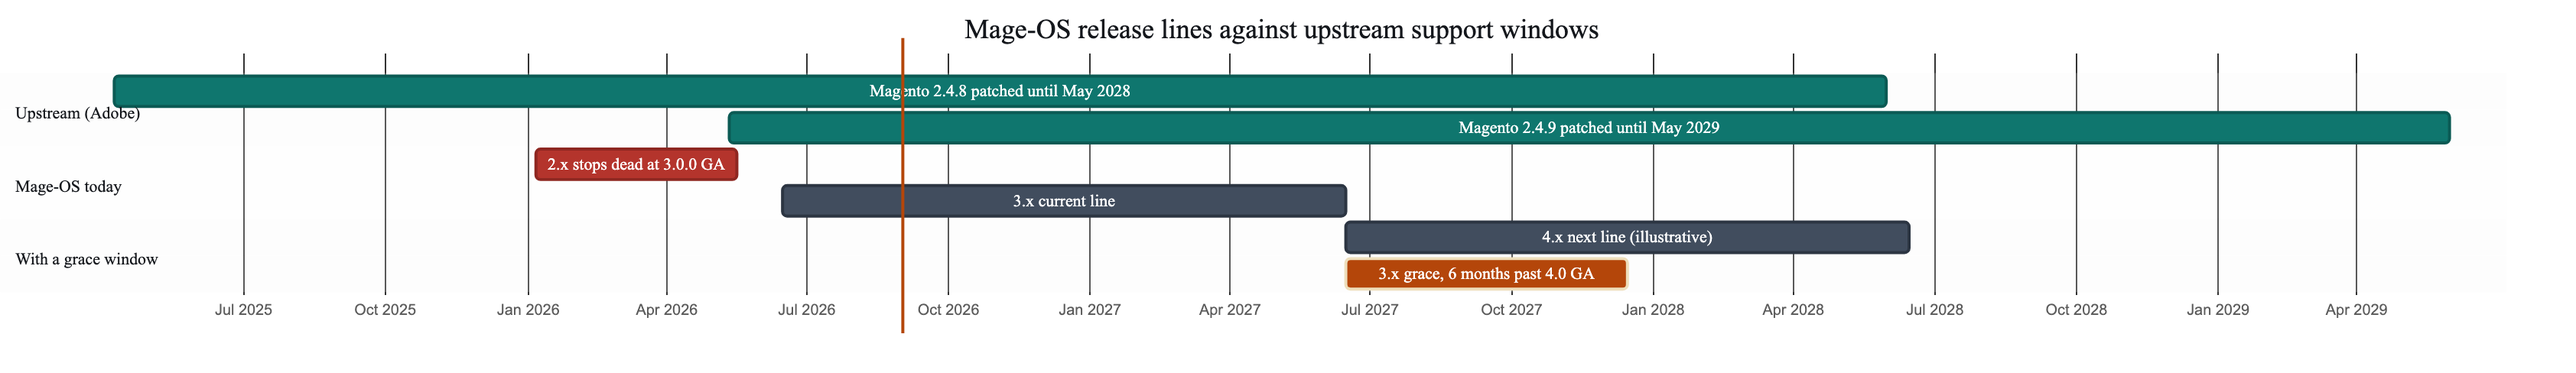
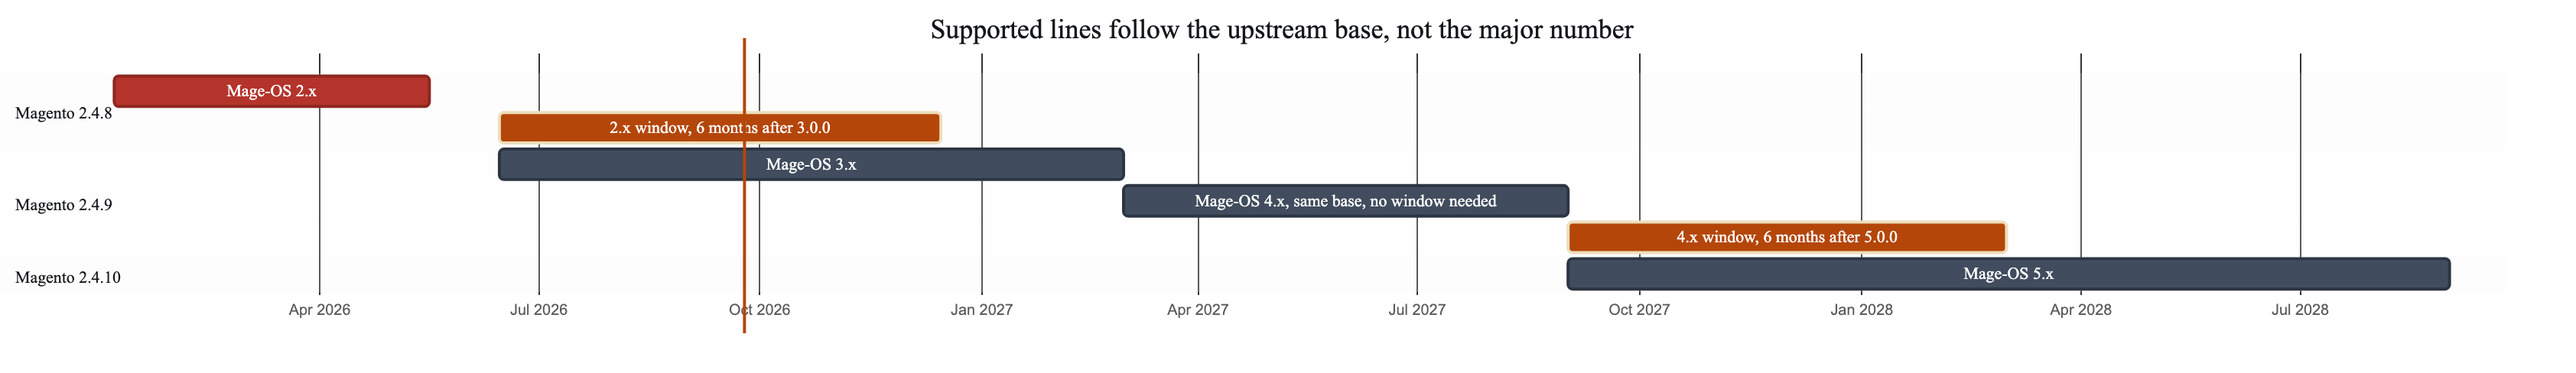
Anchor the maintenance window to the upstream base
Follows Ryan's point that a major keeping the same Magento version is a safe
upgrade, so only the line before an upstream feature change needs a window.
Supported lines are now the current major plus the last major on the previous
Magento version, for six months after the first release on the new one.

Also narrows scope to security fixes only, adds the rule that every supported
line ships the same day from one patch port with an escape hatch, and records
the open question of whether 4.0's own breaking changes warrant a one-off 3.x
window.

Claude-Session: https://claude.ai/code/session_0145ePWxG5QhuKfiSjku3SD4

diff --git a/RELEASE-GRACE-WINDOW-PROPOSAL.md b/RELEASE-GRACE-WINDOW-PROPOSAL.md
@@ -1,12 +1,12 @@
-# Proposal: a six-month grace window for the previous release line
+# Proposal: a security maintenance window for the previous upstream base
 
 **Status:** draft for discussion
-**Date:** 2026-08-31
+**Date:** 2026-09-24
 
 ## Problem
 
-Today a Mage-OS release line stops the moment the next one ships. Merchants and
-agencies get no overlap in which to plan an upgrade.
+A Mage-OS line stops the moment the next one ships, so a merchant who is not
+ready to move gets nothing — not even a security fix.
 
 Tracing `extra.magento_version` across `resource/history/mage-os/`:
 
@@ -15,234 +15,197 @@ Tracing `extra.magento_version` across `resource/history/mage-os/`:
 | 2.2.2 | 2.4.8-p4 | 2026-05-12 |
 | **2.3.0** | **2.4.8-p5** | **2026-05-17 — last 2.x ever** |
 | 3.0.0 | 2.4.9 | 2026-06-15 |
-| 3.1.0 | 2.4.9 | 2026-07-13 |
-| 3.3.0 | 2.4.9 | 2026-08-10 |
+| 3.4.0 | 2.4.9 | 2026-08-11 |
 
-Magento 2.4.9 reached GA on 2026-05-12; Mage-OS 3.0.0 followed 34 days later.
-The 2.x line has had **zero** releases since.
+Magento 2.4.9 reached GA on 2026-05-12 and Mage-OS 3.0.0 followed 34 days
+later. The 2.x line has had **zero** releases since, although Adobe supports its
+2.4.8 base until **2028-05-31** and has shipped isolated patches for it in July,
+August and September 2026. The fixes exist upstream; we stopped forwarding them.
 
-Meanwhile **Adobe supports the 2.4.8 base until 2028-05-31** and is still
-publishing `-pN` patches for it. The security work is already done upstream —
-we simply stopped forwarding it.
-
-The same intent is encoded in `mage-os/github-actions` at
+The same behaviour is encoded in `mage-os/github-actions` at
 `supported-version/src/versions/mage-os/individual.json`, where each version's
-`eol` is set to the *next version's release date*.
-
-```mermaid
-gantt
-    title Mage-OS release lines against upstream support windows
-    dateFormat YYYY-MM-DD
-    axisFormat %b %Y
-
-    section Upstream (Adobe)
-    Magento 2.4.8 patched until May 2028   :done, u8, 2025-04-08, 2028-05-31
-    Magento 2.4.9 patched until May 2029   :done, u9, 2026-05-12, 2029-05-31
-
-    section Mage-OS today
-    2.x stops dead at 3.0.0 GA             :crit, m2, 2026-01-06, 2026-05-17
-    3.x current line                       :active, m3, 2026-06-15, 2027-06-15
-
-    section With a grace window
-    4.x next line (illustrative)           :active, m4, 2027-06-15, 2028-06-15
-    3.x grace, 6 months past 4.0 GA        :g3, 2027-06-15, 2027-12-15
-```
+`eol` is the *next version's release date*.
 
 ## Proposal
 
-> Each Mage-OS major line continues to receive security and critical-fix
-> releases for six months after the following major reaches GA. During that
-> window we track upstream patch releases for the base Magento version.
+> **Supported lines:** the current major, plus the last major built on the
+> previous Magento feature version, for six months after the first release on
+> the new one.
 
-The first line to get a grace window is **3.x, when 4.0.0 ships**. 2.x is not
-retrofitted (see Recommendation).
+The window follows the **upstream base**, not the major number. A major that
+keeps the same Magento version is a safe upgrade, so it needs no window; a major
+that moves to a new Magento feature version is what merchants need time for.
 
-The grace line is **the last 3.x release available when 4.0.0 ships**. The
-examples below use 3.6.0 for it; the real number is whatever 3.x is at by then.
-Merchants on earlier 3.x releases get fixes by moving to the latest 3.x — a
-step within the same line, on the same Magento 2.4.9 base, which a `^3.0`
-constraint picks up automatically. That mirrors Adobe, which supports the latest
-patch of each line rather than every release in it.
+```mermaid
+gantt
+    title Supported lines follow the upstream base, not the major number
+    dateFormat YYYY-MM-DD
+    axisFormat %b %Y
 
-Scope rules:
+    section Magento 2.4.8
+    Mage-OS 2.x                              :crit, m2, 2026-01-06, 2026-05-17
+    2.x window, 6 months after 3.0.0         :w2, 2026-06-15, 2026-12-15
 
-- **Security and critical regressions only.** No feature backports.
-- **Patch-level versions only** — `3.6.1`, `3.6.2`. Never a new minor on a line
-  in its grace window; a minor signals features.
-- **Event-driven, not scheduled.** We build the old line only when Adobe ships a
-  patch for its base. No upstream drop, no release.
+    section Magento 2.4.9
+    Mage-OS 3.x                              :active, m3, 2026-06-15, 2027-03-01
+    Mage-OS 4.x, same base, no window needed :active, m4, 2027-03-01, 2027-09-01
+    4.x window, 6 months after 5.0.0         :w4, 2027-09-01, 2028-03-01
 
-## This is an overlap window, not an LTS
+    section Magento 2.4.10
+    Mage-OS 5.x                              :active, m5, 2027-09-01, 2028-09-01
+```
 
-The distinction carries most of the cost. A true LTS runs years past upstream
-and eventually means originating our own security patches — that needs funding
-or a separate team, which is how Ubuntu and Debian do it.
+Dates after 3.4.0 are illustrative. Two things are load-bearing: only the line
+before a base change gets a window, and at most two lines are ever live.
 
-A six-month grace never approaches that. The old base stays inside Adobe's
-support window for the whole period, so every grace release is **forwarding
-work, not authoring work**. 3.x is built on Magento 2.4.9, which Adobe supports
-until 2029-05-31, so a six-month window after 4.0.0 closes long before that.
+### Scope
 
-Adobe's patch rhythm is close to bi-monthly (`2.4.8` Apr 2025 → `p1` Jun →
-`p2` Aug → `p3` Oct → `p4` Mar 2026 → `p5` May), so a six-month window catches
-two or three drops: two or three extra builds per cycle, against twelve to
-fifteen for a real LTS.
+- **Security fixes only.** Tiny, low-risk regression fixes at the maintainers'
+  discretion. Anything else means upgrading to the current major.
+- **Patch versions only** on a maintenance line — `4.3.1`, `4.3.2`. A new minor
+  would signal features.
+- **The last minor of the line only.** A merchant on `4.1.0` moves to `4.3.x` to
+  receive fixes, which is a minor bump on the same Magento base.
+- **Event-driven.** We build the maintenance line only when Adobe ships a patch
+  for its base.
+- **Every supported line ships the same day**, from one patch port, with one
+  announcement. If a port needs conflict resolution, the current line is
+  published on time and the maintenance build states its ETA. See below.
+
+### What merchants do
+
+| Situation | Action |
+| --- | --- |
+| On the current major | Upgrade as usual |
+| On a major sharing the current Magento version (3.x when 4.x is out) | Upgrade; the base does not change |
+| Not ready for the new Magento version | Stay on the last minor of the previous base for six months |
+| Window closed | Still installable from repo.mage-os.org; no new fixes |
+
+## Shipping together
+
+The risk of a maintenance line is a split cadence: the current release goes out
+with a security fix and the older one follows days later, or holds it up.
+
+The tooling already avoids that. `bin/apply-security-patch.js` (#356) takes
+`--branches=main,release/4.x` and ports one Adobe patch to every line in a
+single run, so the maintenance port happens alongside the current one, not after
+it. Security-only scope keeps each port small; Adobe patches every supported line
+on one day, and so should we.
+
+The escape hatch matters as much as the rule: a conflicted hunk on the old line
+must never delay a security release on the current one.
 
 ## Mechanics
 
-`main` will have moved to 4.x, so the grace line cannot be built from it, nor
-from a tracking branch: for 2.x, `2.3.0...2.4-develop` in `mageos-magento2` was
-**diverged, 10,272 commits ahead**. The grace line branches from the commit the
-last 3.x release was built from, and each security fix is ported onto it.
+`main` will have moved on, so the maintenance line cannot be built from it, nor
+from a tracking branch — `2.3.0...2.4-develop` in `mageos-magento2` is
+**diverged, 10,272 commits ahead**. It branches from the commit its last release
+was built from.
 
 ```mermaid
 gitGraph
-    commit id: "3.5.0 source"
-    commit id: "3.6.0 source" tag: "built as 3.6.0"
-    branch release/3.x
+    commit id: "4.2.0 source"
+    commit id: "4.3.0 source" tag: "built as 4.3.0"
+    branch release/4.x
     checkout main
-    commit id: "4.x work"
-    commit id: "4.0.0 source" tag: "built as 4.0.0"
-    checkout release/3.x
+    commit id: "5.x work"
+    commit id: "5.0.0 source" tag: "built as 5.0.0"
+    checkout release/4.x
     commit id: "port Adobe patch"
-    commit id: "3.6.1 source" tag: "built as 3.6.1"
+    commit id: "4.3.1 source" tag: "built as 4.3.1"
 ```
 
-1. **At 4.0.0 GA, point `release/3.x` at the commit 3.6.0 was built from** —
-   the parent of the CI "Release 3.6.0" commit the tag sits on, which only
-   rewrites versions.
-   The existing `release/3.x` in `mageos-magento2` is the branch used to prepare
-   3.0: its last commit is from 2026-05-18, it is 59 commits behind 3.4.0, and
-   it has no commits of its own, so resetting it loses nothing.
-2. **Port Adobe's isolated patch onto it.** Adobe publishes one per upstream
-   line; `bin/apply-security-patch.js` from #356 rewrites its `vendor/` paths
-   to source-tree paths and applies it, one review branch per line.
-3. **Build with a release refs file.**
+1. **At 5.0.0 GA, point `release/4.x` at the commit 4.3.0 was built from** — the
+   parent of the CI "Release 4.3.0" commit the tag sits on, which only rewrites
+   versions. Branch lazily: only repositories that receive a patch need one.
+2. **Port Adobe's isolated patch onto it** with `bin/apply-security-patch.js`,
+   which rewrites `vendor/` paths to source-tree paths (#356).
+3. **Build with a release refs file.** A release tags every repository, so `*`
+   points at the outgoing line's last tag and only patched repositories name a
+   branch:
+
+   ```js
+   // src/build-config/mage-os-release-refs/4.3.1.js
+   module.exports = {'*': '4.3.0', 'magento2': 'release/4.x'};
+   ```
 
 ## Required changes
 
-Only two repositories need edits. The ~25 `mageos-*` build repos need
-**branches, not code**.
+### 1. `mage-os/generate-mirror-repo-js` (this repo) — in this PR
 
-### 1. `mage-os/generate-mirror-repo-js` (this repo) — included in this PR
-
-- [x] `src/make/mageos-release.js`, `src/release-build-tools.js` — a new
-      release now honours each repository's and metapackage's `fromTag`, which
-      until now only the history rebuild checked. Without this, a release on
-      an older line built with a later config picks up repositories and
-      metapackages that start after it — for example, a 2.x release would get
-      `magento-zf-captcha`, `magento-zf-soap` and the minimal edition, which
-      start at 3.0.0. Releases on the current line are unaffected.
-- [x] `.github/workflows/build-mageos-release.yml` — new optional
+- [x] `src/make/mageos-release.js`, `src/release-build-tools.js` — a new release
+      now honours each repository's and metapackage's `fromTag`, which until now
+      only the history rebuild checked. Without it, a release on an older line
+      picks up what starts later: a 2.x release would get `magento-zf-captcha`,
+      `magento-zf-soap` and the minimal edition, all from 3.0.0. Current-line
+      releases are unaffected.
+- [x] `.github/workflows/build-mageos-release.yml` — optional
       `release_refs_file` input.
 - [x] `.github/workflows/deploy.yml` — threads it through as
-      `--releaseRefsFile`. Empty by default, so existing runs are unchanged.
+      `--releaseRefsFile`, empty by default.
 - [x] `src/build-config/mage-os-release-refs/README.md` — documents the
       convention. No version file is included; adding one would change how that
       version builds.
 
-`--releaseRefsFile` parsing (#353) and per-repository keys in the refs file
-(#354) were already fixed on `main`.
+`--releaseRefsFile` parsing (#353) and per-repository refs keys (#354) were
+already fixed on `main`. No change is needed in `push-release-tag.yml`: it
+pushes tag objects from the build's working copies, so a tag created on
+`release/N.x` already points at the right commit.
 
-A release creates its tag in every repository from that repository's ref, so a
-refs file only needs a branch where there are patches. Everything else builds
-from the outgoing line's last tag, which every repository already has:
-
-```js
-// src/build-config/mage-os-release-refs/3.6.1.js
-module.exports = {'*': '3.6.0', 'magento2': 'release/3.x'};
-```
-
-**Minimal edition.** It is built by the same release, as the
+The **minimal edition** is built by the same release, as the
 `product-minimal-edition` and `project-minimal-edition` metapackages, so it
-follows the same grace window: a 3.x security release after 4.0 includes it. The supported-version data in `mage-os/github-actions` has no
-minimal-edition entries at all, so it is not in the CI matrix today either.
+follows the window automatically.
 
-No change is needed in `.github/workflows/push-release-tag.yml`: it pushes tag
-objects from the build's working copies, so a tag created on `release/N.x`
-already points at the right commit.
+### 2. `mage-os/github-actions` — data, not code
 
-### 2. `mage-os/github-actions` — a data change, not code
-
-- [ ] `supported-version/src/versions/mage-os/individual.json` — today each
-      version's `eol` is the next version's release date. That stays right for
-      3.0.0 to 3.5.0, since only the latest 3.x is supported. Two changes:
-      - the last 3.x release (3.6.0) gets `eol` = **4.0.0's release date plus
-        six months**;
-      - each grace release (3.6.1, 3.6.2, …) gets its own entry with the same
-        `eol`.
+- [ ] `supported-version/src/versions/mage-os/individual.json` — the last
+      release of a maintenance line gets `eol` = the first release on the new
+      base **plus six months**, and each maintenance release gets its own entry
+      with the same `eol`. Earlier entries keep the current behaviour, since
+      only the last minor of a line is supported.
 - [ ] Add the minimal edition, which has no entries today.
 
-`getCurrentlySupportedVersions` already filters on `release`/`eol`, so no new
-mechanism is required — only the dates change.
+`getCurrentlySupportedVersions` already filters on `release`/`eol`, so only the
+dates change.
 
-### 3. The `mageos-*` build repositories — no code changes
+### 3. The `mageos-*` repositories — no code changes
 
-- [ ] Branch `release/3.x` **lazily** — only in repos that receive a patch.
-      The rest build from their `3.6.0` tag through the refs file's `*` key.
-- [ ] In `mageos-magento2`, reset the existing, stale `release/3.x` at 4.0.0
-      GA (see Mechanics).
+- [ ] Branch `release/N.x` lazily, only where a patch lands.
+- [ ] In `mageos-magento2`, `release/3.x` is the stale 3.0 staging branch: last
+      commit 2026-05-18, 59 commits behind 3.4.0, nothing of its own. Whichever
+      branch name a maintenance line uses must be reset at that point.
 
-### 4. Release skills — follow-up, deliberately not in this PR
+### 4. Release skills — follow-up
 
-`prep-release-prs` merges `release/N.x` **into** the default branch, and
-`release/3.x` is exactly the name it would pick up. Under this
-policy a grace branch must not be merged into trunk while it is live, so that
-skill needs a guard before the first grace window opens — it is the one that
-could actively cause harm. `audit-release-branches` would want to distinguish a
-pre-release staging branch from a live grace branch, and `merge-upstream-tracking`
-targets default branches only.
+- `prep-release-prs` merges `release/N.x` **into** the default branch and
+  defaults to that name. It must skip a branch whose line is in its window.
+- `analyze-release-preview` compares the previous tag to `main`; for a
+  maintenance release it must compare against that line's branch.
+- `audit-release-branches` should tell a staging branch from a live maintenance
+  branch.
 
-None of these bite until a grace branch exists, and they encode workflow that
-depends on the policy being agreed first, so they are left for a follow-up.
+`add-release-history` and `merge-upstream-tracking` need no change.
 
-## Open question: major cadence
+## Open questions
 
-Mage-OS majors currently arrive faster than six months — 2.0.0 on 2026-01-06,
-3.0.0 on 2026-06-15: about **5.3 months**. At that pace a six-month grace means
-two lines are live permanently, occasionally three, and the window never closes.
-
-Options:
-
-1. **Tie majors to upstream minors** (roughly annual: 2.4.7 Apr 2024 → 2.4.8
-   Apr 2025 → 2.4.9 May 2026). Two lines for half of each year, closing cleanly.
-   Recommended.
-2. **Shorten the grace to three or four months** — still catches two upstream
-   drops, still closes.
-3. **Accept permanent two-line operation** and staff for it.
-
-1.0.0 was only released in November 2025, so the fast major cadence may be
-early-project churn rather than steady state.
-
-## Recommendation
-
-Adopt the policy **from the 3.x → 4.x transition**, and do not retrofit 2.x:
-
-- 2.x ended in May 2026 and 3.x has had five releases since. Most people who
-  were going to move have moved.
-- Retrofitting would not be free. Adobe has published isolated patches for
-  2.x's base (2.4.8-p5) in July, August and September 2026; #356's demo ported
-  all of them, with one hunk resolved by hand. Supporting 2.x now means
-  shipping that backlog.
-- Starting with 3.x means the branch is reset at the right moment rather than
-  reconstructed after the fact.
-
-For current 2.x holdouts the honest message is that 2.x remains installable
-indefinitely from repo.mage-os.org and the supported path is 3.x — with a
-commitment that this is the last time a line ends without warning.
+1. **Does 4.0 contain breaking changes of our own that warrant a one-off 3.x
+   window?** Under this rule 3.x gets none, because it shares Magento 2.4.9 with
+   4.x. That is correct only if the 3→4 upgrade really is easy; a dropped PHP
+   version or removed modules would leave people stuck.
+2. **Six months** — long enough to plan a Magento feature upgrade?
+3. **Who owns the maintenance line?** Ubuntu and Debian both fund or delegate
+   the tail; the same-day rule above only holds if one team ships both lines.
 
 ## Effort
 
-- **One-time:** roughly a week. The refs-file wiring is trivial; the branch and
-  tag plumbing is the real work.
-- **Recurring:** two or three extra builds per major cycle, only when upstream
-  ships a patch.
-- Subsequent majors repeat the same steps: at 5.0.0, the last 4.x release
-  becomes the grace line.
+- **One-time:** about a week — the refs-file wiring is small, the branch and tag
+  plumbing is the real work.
+- **Recurring:** one extra build per Adobe patch, two or three per window, done
+  in the same session as the current line's release.
 
 ---
 
 *Sources: `resource/history/mage-os/` and `resource/history/magento/` in this
 repository; branch and tag state on `mage-os/mageos-magento2`,
 `mage-os/mirror-magento2` and `mage-os/github-actions`; Adobe Commerce lifecycle
-policy, checked 2026-08-31.*
+policy. Checked 2026-09-24.*
